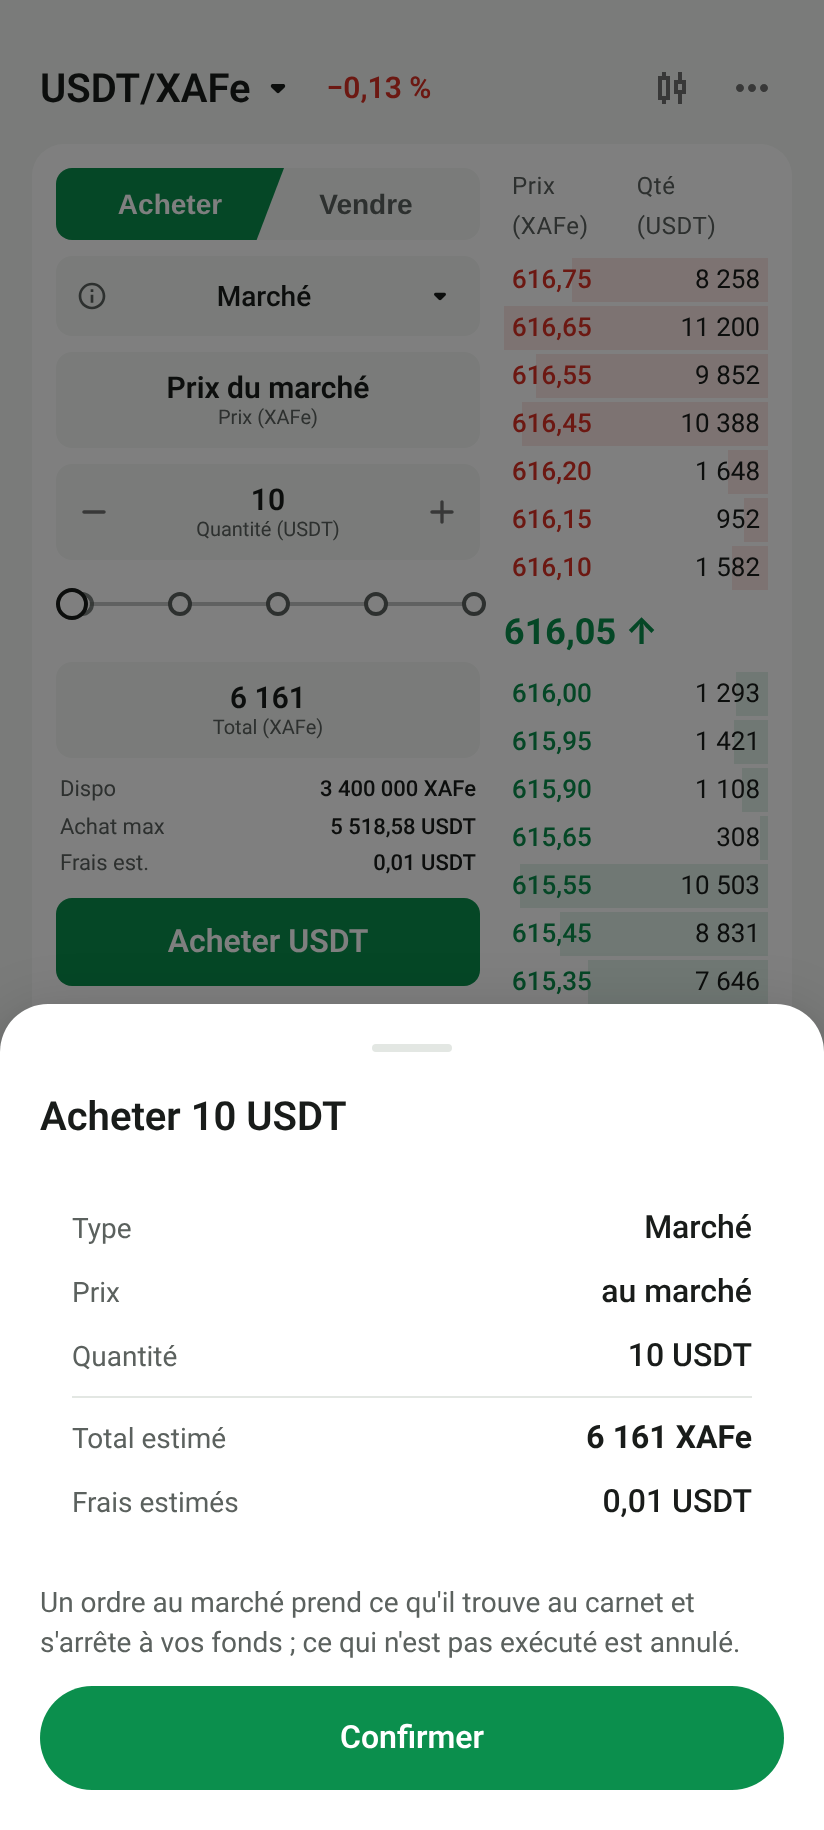
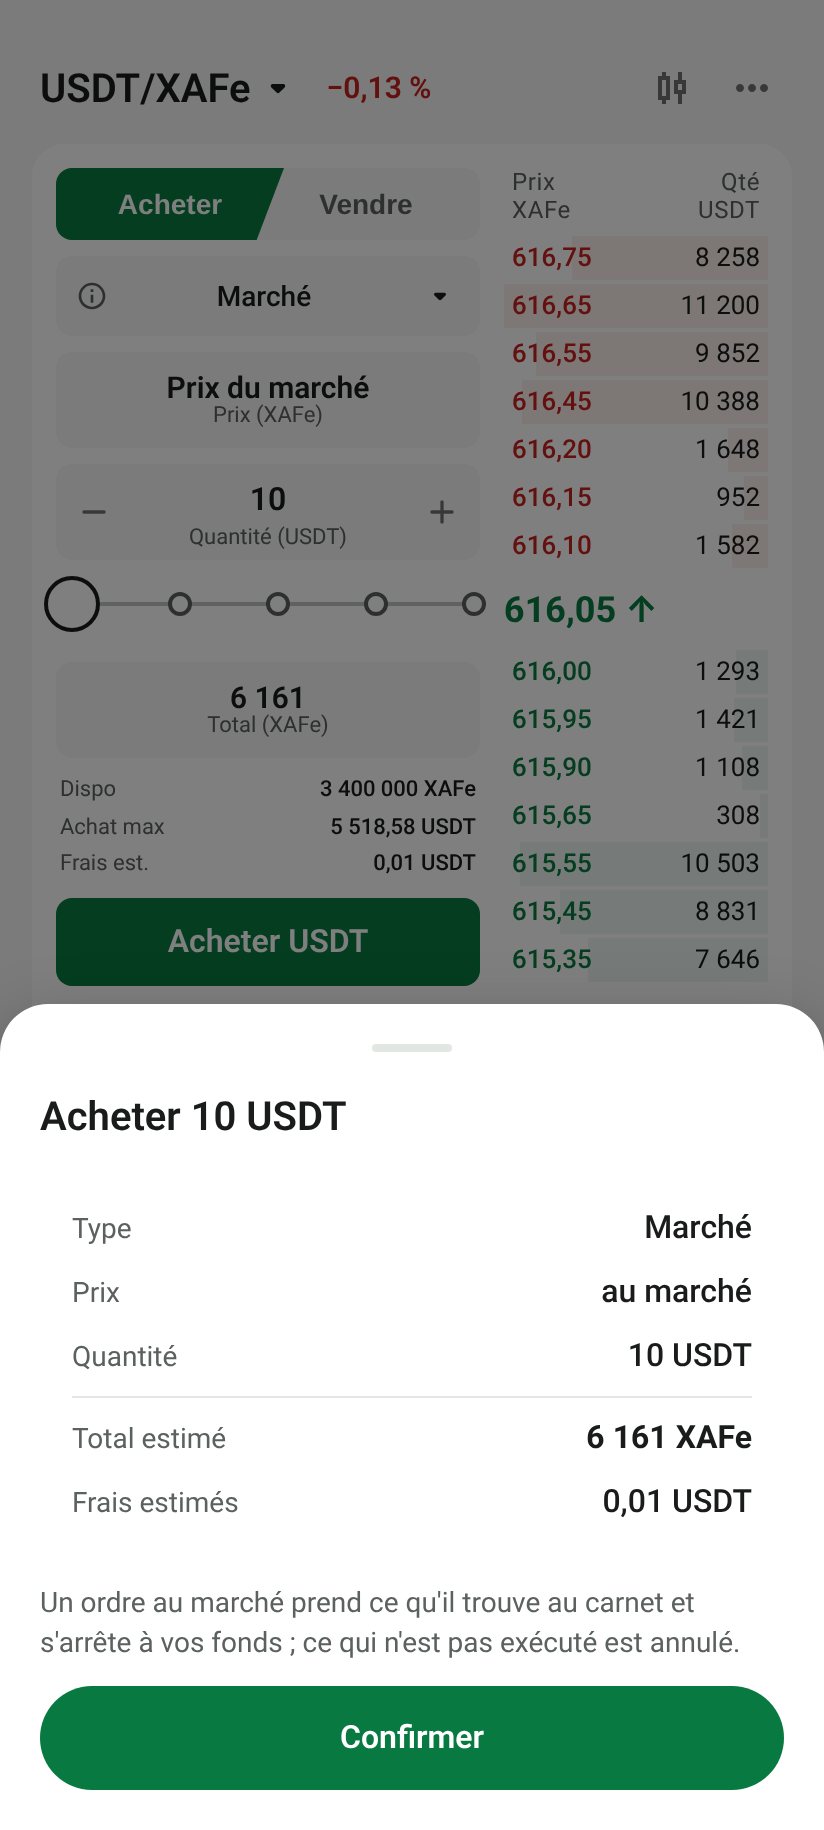
Le plus petit écran (320) passe aussi : carnet, onglets, ordres
À 320 points — le seuil de WCAG pour le texte agrandi — le formulaire
d'ordre laissait 40 px au carnet, « Infos » et « Exécutions » sortaient de
l'écran, « Actifs » passait sous « Tout voir ». Le formulaire prend 56 %
sous 360, les chiffres du carnet ne passent plus à la ligne, les onglets
tiennent dans la largeur. Le harnais ne compte plus ce qu'un conteneur
rogne (l'onde d'un toucher) ; il dit ce qu'il ne voit pas (le moteur de
l'iPhone). Le marché peut s'élargir à 1 440 sur un très grand écran.

Claude-Session: https://claude.ai/code/session_01KQFNA9um3M9XZtMAcLTsHe

diff --git a/app/src/ecrans/marche/index.tsx b/app/src/ecrans/marche/index.tsx
@@ -80,8 +80,8 @@ function BookRow({ n, max, side, onPick, align = "right" }: { n: Niveau; max: nu
   return (
     <ButtonBase onClick={onPick ? () => onPick(n.prix) : undefined} sx={{ position: "relative", display: "flex", justifyContent: "space-between", height: 24, alignItems: "center", px: 0.5, width: "100%", borderRadius: 1 }}>
       <Box sx={{ position: "absolute", top: 1, bottom: 1, [align]: 0, width: `${w}%`, bgcolor: fond(side) }} />
-      <Typography sx={{ position: "relative", fontSize: 13, fontWeight: 500, color: couleur(side), fontVariantNumeric: "tabular-nums" }}>{fPrix(n.prix)}</Typography>
-      <Typography sx={{ position: "relative", fontSize: 13, fontVariantNumeric: "tabular-nums" }}>{fUsdt(n.quantite)}</Typography>
+      <Typography sx={{ position: "relative", fontSize: 12, "@media (min-width:360px)": { fontSize: 13 }, fontWeight: 500, color: couleur(side), fontVariantNumeric: "tabular-nums", whiteSpace: "nowrap" }}>{fPrix(n.prix)}</Typography>
+      <Typography sx={{ position: "relative", fontSize: 12, "@media (min-width:360px)": { fontSize: 13 }, fontVariantNumeric: "tabular-nums", whiteSpace: "nowrap", ml: 0.5 }}>{fUsdt(n.quantite)}</Typography>
     </ButtonBase>
   );
 }
@@ -114,8 +114,9 @@ function CompactBook({ onPick }: { onPick: (p: number) => void }) {
   return (
     <Stack sx={{ flex: 1, minWidth: 0 }}>
       <Stack direction="row" justifyContent="space-between" sx={{ px: 0.5, mb: 0.5 }}>
-        <Typography variant="caption">Prix (XAFe)</Typography>
-        <Typography variant="caption">Qté (USDT)</Typography>
+        {/* « Prix (XAFe) » et « Qté (USDT) » ne tenaient pas sur un écran de 320 : l'unité passe dessous */}
+        <Typography variant="caption" sx={{ lineHeight: 1.2 }}>Prix<br />XAFe</Typography>
+        <Typography variant="caption" sx={{ lineHeight: 1.2, textAlign: "right" }}>Qté<br />USDT</Typography>
       </Stack>
       {!carnet ? <Squelette hauteur={360} radius={8} /> : (
         <>
@@ -252,7 +253,8 @@ function OrderForm({ onPlace }: { onPlace: (o: Ordre & { rempli: boolean; autoNe
     });
 
   return (
-    <Stack gap={1} sx={{ width: 212, flexShrink: 0 }}>
+    /* 212 px de formulaire laissaient 40 px au carnet sur un écran de 320 : en dessous de 360, il prend 56 % */
+    <Stack gap={1} sx={{ width: 212, flexShrink: 0, "@media (max-width:359px)": { width: "56%" } }}>
       <SideToggle side={f.cote} onChange={(c) => poser({ cote: c, prix: "" })} />
       <ButtonBase onClick={() => setTypeOuvert(true)} sx={{ borderRadius: 2 }}>
         <Paper sx={{ bgcolor: "background.default", borderRadius: 2, height: 40, display: "flex", alignItems: "center", px: 1.25, gap: 0.5, width: "100%" }}>
@@ -337,7 +339,7 @@ function OpenOrder({ o, onCancel }: { o: Ordre; onCancel?: (id: string) => void 
       <Stack direction="row" alignItems="center" gap={1}>
         <Chip label={o.cote === "achat" ? "Achat" : "Vente"} size="small" sx={{ height: 22, fontSize: 12, bgcolor: fond(o.cote), color: couleur(o.cote), fontWeight: 600 }} />
         <Typography component={Link} to={`/marche/ordres/${o.id}`} sx={{ fontWeight: 600, fontSize: 14, color: "inherit", textDecoration: "none", display: "inline-block", py: "6px" }}>USDT/XAFe</Typography>
-        <Typography variant="caption">{o.type === "limite" ? "Limite" : "Marché"}</Typography>
+        <Typography variant="caption" sx={{ "@media (max-width:359px)": { display: "none" } }}>{o.type === "limite" ? "Limite" : "Marché"}</Typography>
         <Box sx={{ flex: 1 }} />
         <Typography variant="caption">{heure(o.creeLe)}</Typography>
         {ouvert && onCancel ? (
@@ -417,9 +419,11 @@ export function Marche() {
   const [bas, setBas] = useState<"ouverts" | "actifs">("ouverts");
   const ouverts = (ordres ?? []).filter((o) => o.etat === "ouvert" || o.etat === "partiel");
   const grand = useMediaQuery("(min-width:1200px)", { noSsr: true });
+  /* sous 360, « Ordres ouverts » poussait « Actifs » sous « Tout voir » */
+  const etroit = useMediaQuery("(max-width:359px)", { noSsr: true });
 
   return (
-    <Screen tab="marche" large gap={0}>
+    <Screen tab="marche" large={1440} gap={0}>
       {/* Sur un ordinateur, le graphique à gauche et l'ordre à droite, comme sur toutes les places de
           marché : on regarde le prix ET on agit, sans changer d'écran. Ailleurs, une colonne. */}
       <Box sx={{ display: "grid", gridTemplateColumns: { xs: "minmax(0,1fr)", lg: "minmax(0,1fr) 560px" }, gap: 3, alignItems: "start", width: "100%", maxWidth: { xs: 600, lg: "none" }, mx: "auto" }}>
@@ -434,8 +438,8 @@ export function Marche() {
       </Paper>
       <Box sx={{ mt: 1.5 }}>
         <Stack direction="row" alignItems="center">
-          <Tabs value={bas} onChange={(_, v) => setBas(v)} sx={{ minHeight: 40, flex: 1 }}>
-            <Tab value="ouverts" label={`Ordres ouverts (${ouverts.length})`} sx={{ minHeight: 40, textTransform: "none", fontWeight: 600 }} />
+          <Tabs value={bas} onChange={(_, v) => setBas(v)} variant="scrollable" scrollButtons={false} sx={{ minHeight: 40, flex: 1, minWidth: 0 }}>
+            <Tab value="ouverts" label={`${etroit ? "Ouverts" : "Ordres ouverts"} (${ouverts.length})`} sx={{ minHeight: 40, textTransform: "none", fontWeight: 600 }} />
             <Tab value="actifs" label="Actifs" sx={{ minHeight: 40, textTransform: "none", fontWeight: 600 }} />
           </Tabs>
           <Button size="small" variant="text" component={Link} to="/marche/ordres" sx={{ minHeight: 32, fontSize: 13 }}>Tout voir</Button>
@@ -578,7 +582,7 @@ export function MarcheGraphique() {
       <Paper sx={{ p: 1, borderRadius: 3 }}>
         <Candles chandelles={chandelles ?? []} dernier={c?.dernier ?? null} />
       </Paper>
-      <Tabs value={onglet} onChange={(_, val) => (val === "trades" ? navigate("/marche/carnet") : setOnglet(val))} sx={{ minHeight: 40 }}>
+      <Tabs value={onglet} onChange={(_, val) => (val === "trades" ? navigate("/marche/carnet") : setOnglet(val))} variant="fullWidth" sx={{ minHeight: 40, "& .MuiTab-root": { minWidth: 0, px: 1, "@media (max-width:359px)": { fontSize: 13, px: 0.5 } } }}>
         <Tab value="carnet" label="Carnet" sx={{ minHeight: 40, textTransform: "none", fontWeight: 600 }} />
         <Tab value="trades" label="Transactions" sx={{ minHeight: 40, textTransform: "none", fontWeight: 600 }} />
         <Tab value="infos" label="Infos" sx={{ minHeight: 40, textTransform: "none", fontWeight: 600 }} />
@@ -672,7 +676,7 @@ export function MarcheCarnet() {
 
   return (
     <Screen back="/marche" title="USDT/XAFe" gap={1}>
-      <Tabs value={onglet} onChange={(_, v) => setOnglet(v)} sx={{ minHeight: 40 }}>
+      <Tabs value={onglet} onChange={(_, v) => setOnglet(v)} variant="fullWidth" sx={{ minHeight: 40, "& .MuiTab-root": { minWidth: 0, px: 1, "@media (max-width:359px)": { fontSize: 13, px: 0.5 } } }}>
         <Tab value="carnet" label="Carnet d'ordres" sx={{ minHeight: 40, textTransform: "none", fontWeight: 600 }} />
         <Tab value="trades" label="Transactions" sx={{ minHeight: 40, textTransform: "none", fontWeight: 600 }} />
       </Tabs>
@@ -745,7 +749,7 @@ export function MarcheOrdres() {
 
   return (
     <Screen back="/marche" title="Ordres" gap={1}>
-      <Tabs value={onglet} onChange={(_, v) => setOnglet(v)} sx={{ minHeight: 40 }}>
+      <Tabs value={onglet} onChange={(_, v) => setOnglet(v)} variant="fullWidth" sx={{ minHeight: 40, "& .MuiTab-root": { minWidth: 0, px: 1, "@media (max-width:359px)": { fontSize: 13, px: 0.5 } } }}>
         <Tab value="ouverts" label={`Ouverts (${ouverts.length})`} sx={{ minHeight: 40, textTransform: "none", fontWeight: 600 }} />
         <Tab value="historique" label="Historique" sx={{ minHeight: 40, textTransform: "none", fontWeight: 600 }} />
         <Tab value="executions" label="Exécutions" sx={{ minHeight: 40, textTransform: "none", fontWeight: 600 }} />

diff --git a/app/src/ui/index.tsx b/app/src/ui/index.tsx
@@ -131,8 +131,8 @@ export function Screen({
   fermer?: string;
   /** un écran racine : la barre d'onglets (sur un téléphone) */
   tab?: Tab;
-  /** l'écran prend la largeur d'un grand écran (les racines) ; sinon, une colonne lisible */
-  large?: boolean;
+  /** l'écran prend la largeur d'un grand écran (les racines : 1 080, ou la largeur donnée) ; sinon, une colonne lisible */
+  large?: boolean | number;
   actions?: ReactNode;
   children: ReactNode;
   gap?: number;
@@ -146,7 +146,7 @@ export function Screen({
   return (
     /* Un parcours, sur un grand écran, garde sa hauteur naturelle : sans cela, le pavé tombait au pied
        d'une fenêtre de 960 px, à 500 px du montant qu'il remplit. Sur un téléphone, il reste sous le pouce. */
-    <Box sx={{ width: "100%", maxWidth: { xs: 600, sm: large ? 1080 : 600 }, mx: "auto", minHeight: { xs: "100dvh", sm: large || !dans ? "100dvh" : "auto" }, pb: { sm: dans && !large ? 4 : 0 },
+    <Box sx={{ width: "100%", maxWidth: { xs: 600, sm: large ? (typeof large === "number" ? large : 1080) : 600 }, mx: "auto", minHeight: { xs: "100dvh", sm: large || !dans ? "100dvh" : "auto" }, pb: { sm: dans && !large ? 4 : 0 },
                /* hors de l'application (Bienvenue, verrou…), sur un grand écran : une colonne centrée dans la hauteur */
                justifyContent: { sm: !dans && !large ? "center" : "flex-start" }, bgcolor: "background.default", display: "flex", flexDirection: "column",
                px: { sm: dans ? 2 : 0 }, pl: "env(safe-area-inset-left)", pr: "env(safe-area-inset-right)" }}>
